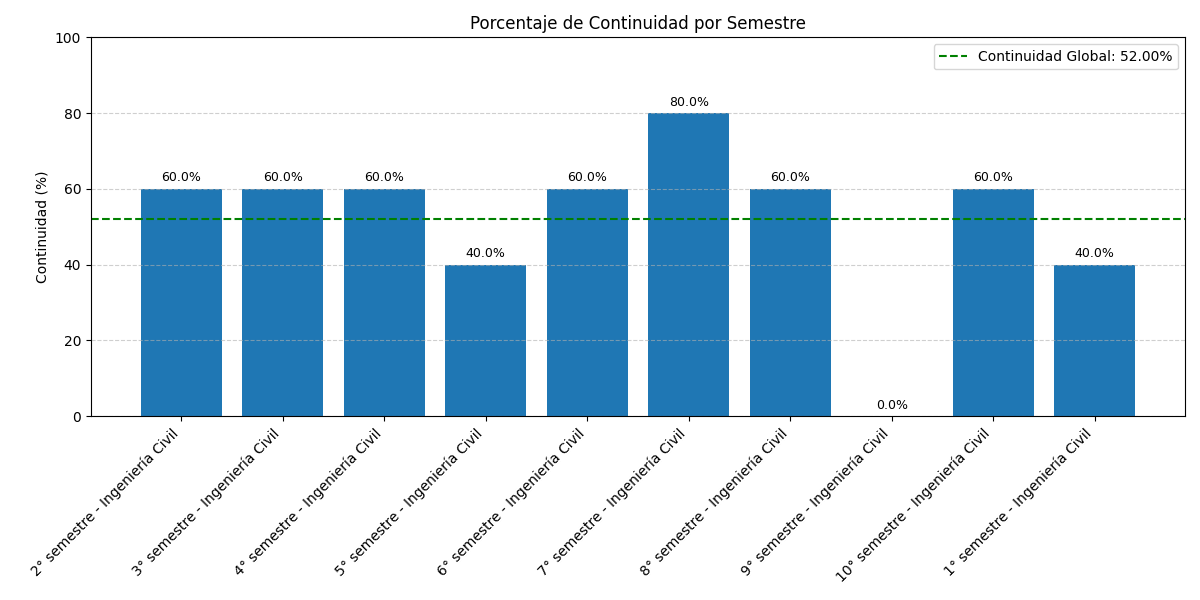
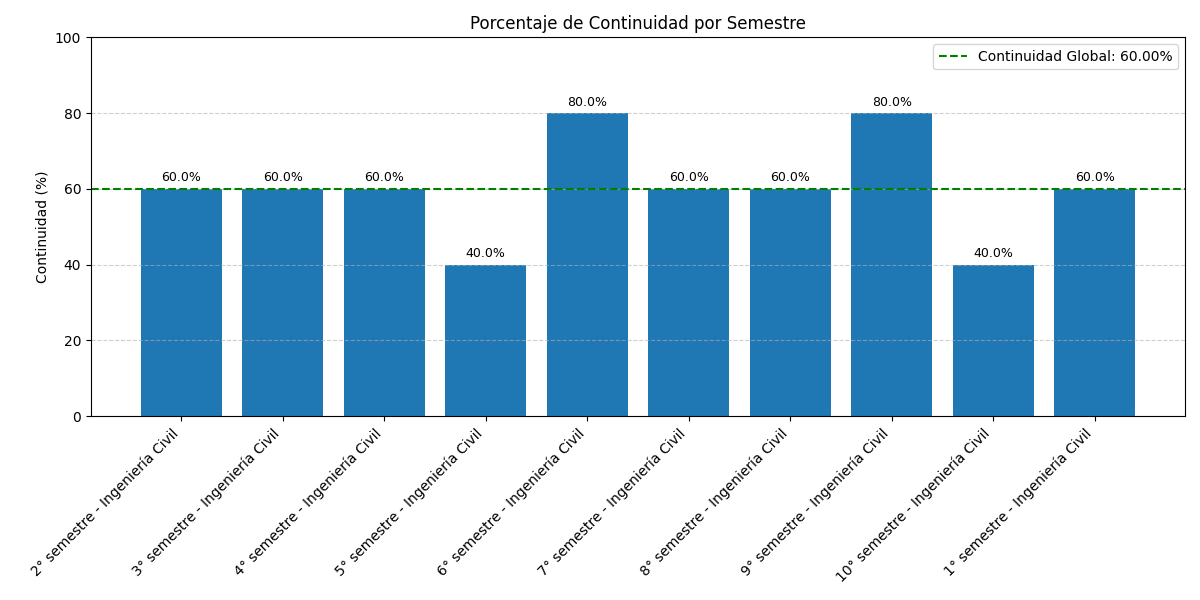
GUIcreada, funcionando al 80% (Faltan detalles esteticos y eleccion de 1 de 3 opciones de ejecucion)

Changed region(s): [[0.7092, 0.15, 0.9558, 0.72], [0.4317, 0.15, 0.6167, 0.33], [0.925, 0.09, 0.9558, 0.12]]

diff --git a/interface/app.py b/interface/app.py
@@ -1,0 +1,259 @@
+import os
+import sys
+import csv
+import webbrowser
+
+from PyQt5.QtWidgets import (
+    QApplication, QWidget, QVBoxLayout, QPushButton, QLabel,
+    QFileDialog, QLineEdit, QHBoxLayout, QTextEdit, QTabWidget, QFormLayout,
+    QScrollArea, QTableWidget, QTableWidgetItem, QHeaderView
+)
+from PyQt5.QtGui import QPixmap
+from PyQt5.QtCore import Qt, QUrl
+from PyQt5.QtWebEngineWidgets import QWebEngineView
+from interface.runner import ejecutar_algoritmo
+
+class MainApp(QWidget):
+    def __init__(self):
+        super().__init__()
+        self.setWindowTitle("Generador de Horarios - IA1")
+        self.setGeometry(100, 100, 900, 700)
+        self.init_ui()
+
+    def init_ui(self):
+        layout = QVBoxLayout()
+        self.tabs = QTabWidget()
+
+        self.csv_tab = QWidget()
+        self.csv_tab.setLayout(self.init_csv_tab())
+        self.tabs.addTab(self.csv_tab, "Cargar CSV")
+
+        self.config_tab = QWidget()
+        self.config_tab.setLayout(self.init_config_tab())
+        self.tabs.addTab(self.config_tab, "Configuración")
+
+        self.console_tab = QWidget()
+        self.console_tab.setLayout(self.init_console_tab())
+        self.tabs.addTab(self.console_tab, "Consola")
+
+        self.results_tab = QWidget()
+        self.results_tab.setLayout(self.init_results_tab())
+        self.tabs.addTab(self.results_tab, "Resultados")
+
+        self.reports_tab = QWidget()
+        self.reports_tab.setLayout(self.init_reports_tab())
+        self.tabs.addTab(self.reports_tab, "Reportes")
+
+        layout.addWidget(self.tabs)
+        self.setLayout(layout)
+        self.auto_set_csv_defaults()
+
+    def init_csv_tab(self):
+        layout = QFormLayout()  # más compacto y limpio
+        self.csv_labels = {}
+
+        for label in ["Cursos", "Docentes", "Relación Docente-Curso", "Salones"]:
+            container = QHBoxLayout()
+
+            le = QLineEdit()
+            le.setReadOnly(True)
+            le.setMaximumWidth(500)  # limite para que no se desborde
+
+            b = QPushButton("Seleccionar")
+            b.setMaximumWidth(100)  # botón más compacto
+            b.clicked.connect(lambda _, key=label, line=le: self.load_csv(key, line))
+
+            container.addWidget(le)
+            container.addWidget(b)
+            layout.addRow(QLabel(label + ":"), container)
+
+            self.csv_labels[label] = le
+
+        return layout
+
+    def load_csv(self, label, line_edit):
+        file_path, _ = QFileDialog.getOpenFileName(self, f"Seleccionar archivo CSV de {label}", "", "CSV Files (*.csv)")
+        if file_path:
+            line_edit.setText(file_path)
+    
+    def init_config_tab(self):
+        layout = QVBoxLayout()
+
+        form_layout = QFormLayout()
+        form_layout.setLabelAlignment(Qt.AlignLeft)
+        form_layout.setFormAlignment(Qt.AlignTop)
+        form_layout.setSpacing(10)
+
+        self.population_input = QLineEdit("10")
+        self.population_input.setMaximumWidth(100)
+        form_layout.addRow("Tamaño de población:", self.population_input)
+
+        self.generations_input = QLineEdit("250")
+        self.generations_input.setMaximumWidth(100)
+        form_layout.addRow("Número de generaciones:", self.generations_input)
+
+        self.fitness_input = QLineEdit("125")
+        self.fitness_input.setMaximumWidth(100)
+        form_layout.addRow("Aptitud objetivo:", self.fitness_input)
+
+        self.start_button = QPushButton("Ejecutar Algoritmo")
+        self.start_button.setMaximumWidth(150)
+        self.start_button.clicked.connect(self.run_algorithm)
+
+        # Botón alineado a la izquierda con un poco de margen
+        button_row = QHBoxLayout()
+        button_row.setContentsMargins(130, 15, 0, 0)  # margen izquierdo y arriba
+        button_row.setAlignment(Qt.AlignLeft)
+        button_row.addWidget(self.start_button)
+
+        layout.addLayout(form_layout)
+        layout.addLayout(button_row)
+        layout.addStretch()
+
+        return layout
+
+    def init_console_tab(self):
+        layout = QVBoxLayout()
+        self.console_output = QTextEdit()
+        self.console_output.setReadOnly(True)
+        layout.addWidget(self.console_output)
+        return layout
+
+    def init_results_tab(self):
+        layout = QVBoxLayout()
+
+        # ScrollArea para que la tabla se vea bien aunque sea grande
+        scroll = QScrollArea()
+        scroll.setWidgetResizable(True)
+
+        container = QWidget()
+        container_layout = QVBoxLayout()
+
+        # Tabla
+        self.schedule_table = QTableWidget()
+        self.schedule_table.horizontalHeader().setSectionResizeMode(QHeaderView.Stretch)
+        container_layout.addWidget(self.schedule_table)
+
+        # Botón Ver en PDF
+        open_pdf_button = QPushButton("Ver en PDF")
+        open_pdf_button.clicked.connect(self.load_pdf_result)
+        container_layout.addWidget(open_pdf_button)
+
+        container.setLayout(container_layout)
+        scroll.setWidget(container)
+        layout.addWidget(scroll)
+
+        return layout
+
+    def init_reports_tab(self):
+        layout = QVBoxLayout()
+        scroll = QScrollArea()
+        scroll.setWidgetResizable(True)
+        content = QWidget()
+        content_layout = QVBoxLayout()
+
+        self.graph_paths = [
+            ("Evolución de Aptitud", "exports/graficas/evolucion_aptitud.png"),
+            ("Conflictos por Generación", "exports/graficas/conflictos_por_generacion.png"),
+            ("Continuidad por Semestre", "exports/graficas/continuidad_por_semestre.png")
+        ]
+
+        self.graph_labels = []
+        for title, path in self.graph_paths:
+            label = QLabel(title)
+            img_label = QLabel()
+            img_label.setAlignment(Qt.AlignCenter)
+            content_layout.addWidget(label)
+            content_layout.addWidget(img_label)
+            self.graph_labels.append((img_label, path))
+
+        content.setLayout(content_layout)
+        scroll.setWidget(content)
+        layout.addWidget(scroll)
+        return layout
+
+    def run_algorithm(self):
+        cursos = self.csv_labels["Cursos"].text()
+        docentes = self.csv_labels["Docentes"].text()
+        relacion = self.csv_labels["Relación Docente-Curso"].text()
+        salones = self.csv_labels["Salones"].text()
+        try:
+            poblacion = int(self.population_input.text())
+            generaciones = int(self.generations_input.text())
+            aptitud = float(self.fitness_input.text())
+        except ValueError:
+            self.console_output.append("[ERROR] Parámetros inválidos. Verifica los valores numéricos.")
+            return
+
+        self.console_output.append("[INFO] Ejecutando el algoritmo genético...\n")
+
+        try:
+            logs, resultados = ejecutar_algoritmo(
+                cursos, docentes, relacion, salones,
+                poblacion_size=poblacion,
+                generaciones_max=generaciones,
+                aptitud_objetivo=aptitud
+            )
+            for log in logs:
+                self.console_output.append(log)
+            self.load_schedule_csv_to_table()
+            self.load_pdf_result()
+            self.load_report_graphs()
+        except Exception as e:
+            self.console_output.append(f"[ERROR] Error al ejecutar el algoritmo: {e}")
+            
+    def load_schedule_csv_to_table(self):
+        path = os.path.abspath("exports/csv/mejor_horario.csv")
+        if not os.path.exists(path):
+            self.console_output.append("[ERROR] No se encontró el archivo CSV del horario.")
+            return
+
+        if self.schedule_table is None:
+            self.console_output.append("[ERROR] La tabla no ha sido inicializada.")
+            return
+
+        with open(path, newline='', encoding='utf-8') as f:
+            reader = csv.reader(f)
+            headers = next(reader)  # Lee encabezados directamente del archivo
+            rows = list(reader)
+
+            self.schedule_table.setRowCount(len(rows))
+            self.schedule_table.setColumnCount(len(headers))
+            self.schedule_table.setHorizontalHeaderLabels(headers)
+
+            for row_idx, row_data in enumerate(rows):
+                for col_idx, cell in enumerate(row_data):
+                    self.schedule_table.setItem(row_idx, col_idx, QTableWidgetItem(cell))
+
+        self.tabs.setCurrentWidget(self.results_tab)
+
+
+    
+    def load_pdf_result(self):
+        path = os.path.abspath("exports/pdf/mejor_horario.pdf")
+        webbrowser.open_new(f"file:///{path}")
+
+    def load_report_graphs(self):
+        for label, path in self.graph_labels:
+            if os.path.exists(path):
+                pixmap = QPixmap(path)
+                label.setPixmap(pixmap.scaledToWidth(750, Qt.SmoothTransformation))
+
+    def auto_set_csv_defaults(self):
+        base_path = os.path.abspath("data")
+        archivos = {
+            "Cursos": "curso.csv",
+            "Docentes": "docente.csv",
+            "Relación Docente-Curso": "docente_curso.csv",
+            "Salones": "salon.csv"
+        }
+        for key, filename in archivos.items():
+            path = os.path.join(base_path, filename)
+            if os.path.exists(path):
+                self.csv_labels[key].setText(path)
+
+if __name__ == '__main__':
+    app = QApplication(sys.argv)
+    main_win = MainApp()
+    main_win.show()
+    sys.exit(app.exec_())

diff --git a/interface/runner.py b/interface/runner.py
@@ -1,0 +1,99 @@
+from utils.cargador_csv import cargar_cursos, cargar_docentes, cargar_salones, cargar_relacion_docente_curso
+from utils.exportador_csv import exportar_horario_csv
+from utils.exportador_pdf import exportar_horario_pdf
+from utils.grafica_aptitud import graficar_aptitudes
+from utils.grafica_conflictos import graficar_conflictos_por_generacion
+from utils.exportador_resultado import exportar_resultado_final
+from utils.grafica_continuidad import graficar_continuidad_por_semestre
+from poblacion import Poblacion
+from time import time
+import tracemalloc
+
+def ejecutar_algoritmo(path_cursos, path_docentes, path_relacion, path_salones,
+                       poblacion_size=10, generaciones_max=250, aptitud_objetivo=125):
+    logs = []
+    cursos = cargar_cursos(path_cursos)
+    docentes = cargar_docentes(path_docentes)
+    salones = cargar_salones(path_salones)
+    relacion = cargar_relacion_docente_curso(path_relacion)
+    horarios = ["13:40", "14:30", "15:20", "16:10", "17:00", "17:50", "18:40", "19:30", "20:20"]
+
+    poblacion = Poblacion(
+        size=poblacion_size,
+        cursos=cursos,
+        salones=salones,
+        docentes=docentes,
+        relacion_docente_curso=relacion,
+        horarios_disponibles=horarios,
+        imprimir_diagnostico=False
+    )
+
+    logs.append("[INFO] Población inicializada.")
+    poblacion.inicializar()
+    conflicts_history = []
+    generacion_final = 0
+
+    tracemalloc.start()
+    start_time = time()
+
+    for gen in range(generaciones_max):
+        poblacion.evolucionar(generaciones=1)
+        mejor = poblacion.mejor_individuo
+        logs.append(f"[GEN {gen + 1}] Aptitud: {mejor.aptitud:.2f}")
+        generacion_final = gen + 1
+        conflictos = mejor.calcular_conflictos()
+        conflicts_history.append(conflictos)
+        if mejor.aptitud >= aptitud_objetivo:
+            logs.append(f"[OK] Aptitud objetivo alcanzada en la generación {gen + 1}")
+            break
+
+    end_time = time()
+    duracion = end_time - start_time
+    current_mem, peak_mem = tracemalloc.get_traced_memory()
+    tracemalloc.stop()
+
+    mejor = poblacion.mejor_individuo
+    mejor.imprimir_diagnostico = True
+    mejor.calcular_aptitud()
+
+    logs.append("\n[Diagnóstico del individuo]")
+    logs.append(f"- Conflictos sin docente: {mejor.diagnostico_conflictos['sin_docente']}")
+    logs.append(f"- Conflictos docente solapado: {mejor.diagnostico_conflictos['docente_solapado']}")
+    logs.append(f"- Conflictos fuera horario: {mejor.diagnostico_conflictos['fuera_horario']}")
+    logs.append(f"- Conflictos curso obligatorio traslapado: {mejor.diagnostico_conflictos['curso_obligatorio_traslapado']}")
+    logs.append(f"- Bonificaciones por continuidad: {mejor.diagnostico_bonos}")
+    logs.append(f"- Aptitud final: {mejor.aptitud}")
+
+    continuidad_por_semestre, continuidad_global = mejor.medir_porcentaje_continuidad_por_semestre()
+
+    resultado_final = {
+        "generacion_final": generacion_final,
+        "aptitud_final": mejor.aptitud,
+        "conflictos_finales": mejor.calcular_conflictos(),
+        "duracion_segundos": round(duracion, 2),
+        "continuidad_global": continuidad_global,
+        "continuidad_por_semestre": continuidad_por_semestre,
+        "memoria_actual_MB": round(current_mem / (1024 * 1024), 2),
+        "memoria_pico_MB": round(peak_mem / (1024 * 1024), 2)
+    }
+
+    exportar_horario_csv("exports/csv/mejor_horario.csv", mejor, cursos)
+    logs.append("Horario exportado exitosamente como CSV: exports/csv/mejor_horario.csv")
+
+    exportar_horario_pdf("exports/pdf/mejor_horario.pdf", mejor, cursos)
+    logs.append("Horario exportado exitosamente como PDF: exports/pdf/mejor_horario.pdf")
+
+    graficar_aptitudes("exports/graficas/evolucion_aptitud.png", poblacion.mejores_aptitudes)
+    logs.append("Grafica de Evolución de Aptitud exportada exitosamente como PNG: exports/graficas/evolucion_aptitud.png")
+
+    graficar_conflictos_por_generacion("exports/graficas/conflictos_por_generacion.png", conflicts_history)
+    logs.append("Grafica de Evolución de Conflictos exportada exitosamente como PNG: exports/graficas/conflictos_por_generacion.png")
+
+    exportar_resultado_final("exports/resultados/resumen_resultado.json", resultado_final)
+    logs.append("Resumen de resultados (del Individuo Final) exportado exitosamente como JSON: exports/resultados/resumen_resultado.json")
+
+    graficar_continuidad_por_semestre("exports/graficas/continuidad_por_semestre.png", continuidad_por_semestre, continuidad_global)
+    logs.append("Gráfica de continuidad exportada como PNG: exports/graficas/continuidad_por_semestre.png")
+
+    logs.append("[SUCCESS] Ejecución finalizada.")
+    return logs, resultado_final

diff --git a/individuo.py b/individuo.py
@@ -18,7 +18,10 @@ class Individuo:
         self.aptitud: float = 0.0
 
         self.generar_asignacion_prioritaria()
-        # self.calcular_aptitud()
+        
+        # GUI
+        self.diagnostico_conflictos = {}
+        self.diagnostico_bonos = 0
 
     def generar_asignacion_prioritaria(self):
         ocupacion_docente = defaultdict(set)  # (registro_docente) -> set(horarios)
@@ -130,6 +133,11 @@ class Individuo:
         base = 100 - conflictos + bonificaciones
         self.aptitud = max(0.1, base)
         
+        # GUI
+        self.diagnostico_conflictos = conteo_conflictos
+        self.diagnostico_bonos = bonificaciones
+
+        # Mostrar prints de diagnostico
         if self.imprimir_diagnostico:
             print("\n[Diagnóstico del individuo]")
             
@@ -137,6 +145,7 @@ class Individuo:
                 print(f"- Conflictos {k.replace('_', ' ')}: {v}")
             print(f"- Bonificaciones por continuidad: {bonificaciones}")
             print(f"- Aptitud final: {self.aptitud}")
+        
 
     def calcular_conflictos(self) -> int:
         conflictos = 0
